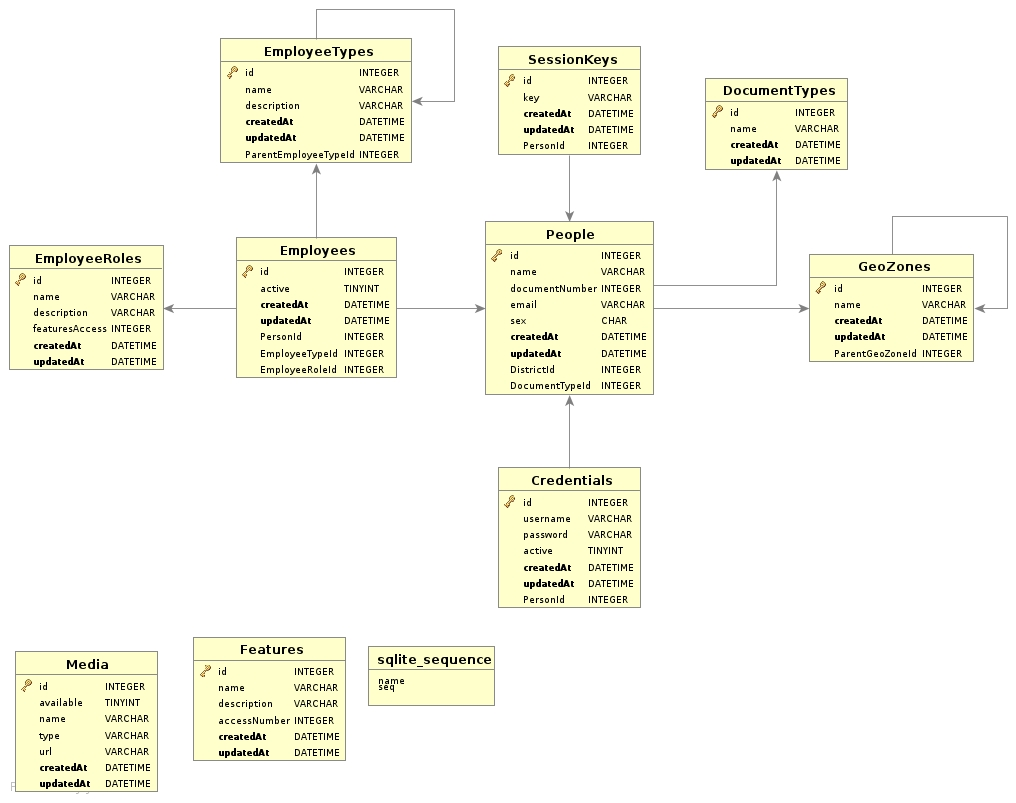
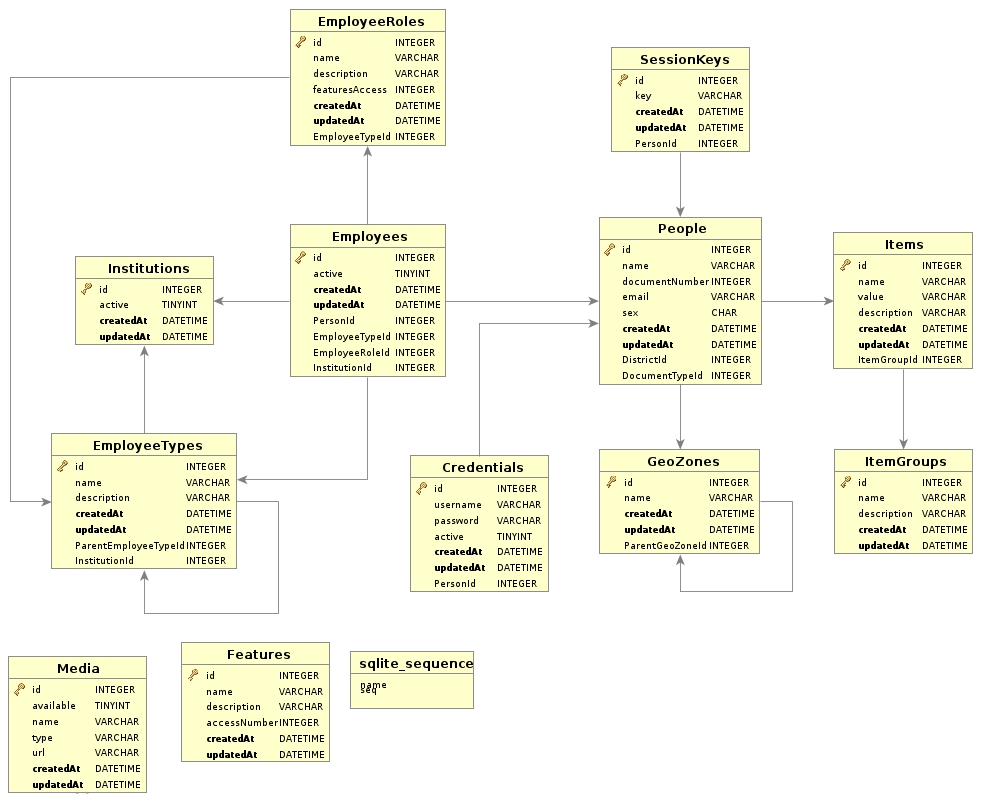
Models updated

diff --git a/src/models/index.js b/src/models/index.js
@@ -40,11 +40,6 @@ module.exports = function ($config, $methods) {
 			key: Sequelize.STRING
 		});
 
-		// Type of document: DNI, Passport, etc..
-		var DocumentType = db.define('DocumentType', {
-			name: Sequelize.STRING
-		});
-
 		// Any geographic zone: Country, City, District, etc..
 		var GeoZone = db.define('GeoZone', {
 			name: Sequelize.STRING
@@ -75,6 +70,11 @@ module.exports = function ($config, $methods) {
 			active: Sequelize.BOOLEAN
 		});
 
+		// Institution: Business, 
+		var Institution = db.define('Institution', {
+			active: Sequelize.BOOLEAN
+		});
+
 		// Media data
 		var Media = db.define('Media', {
 			available: Sequelize.BOOLEAN,
@@ -83,16 +83,33 @@ module.exports = function ($config, $methods) {
 			url: Sequelize.STRING
 		});
 
+		// Multiple options group
+		var ItemGroup = db.define('ItemGroup', {
+			name: Sequelize.STRING,
+			description: Sequelize.STRING
+		});
+
+		// Options
+		var Item = db.define('Item', {
+			name: Sequelize.STRING,
+			value: Sequelize.STRING,
+			description: Sequelize.STRING
+		});
+
 
 		Credential.belongsTo( Person );
 		SessionKey.belongsTo( Person );
 		GeoZone.belongsTo( GeoZone, { as: 'ParentGeoZone' } );
 		Person.belongsTo( GeoZone, { as: 'District' } );
-		Person.belongsTo( DocumentType );
-		EmployeeType.belongsTo( EmployeeType, { as: 'ParentEmployeeType' } )
+		Person.belongsTo( Item, { as: 'DocumentType' } );
+		EmployeeType.belongsTo( EmployeeType, { as: 'ParentEmployeeType' } );
+		EmployeeType.belongsTo( Institution );
+		EmployeeRole.belongsTo( EmployeeType );
 		Employee.belongsTo( Person );
 		Employee.belongsTo( EmployeeType );
 		Employee.belongsTo( EmployeeRole );
+		Employee.belongsTo( Institution );
+		Item.belongsTo( ItemGroup );
 
 
 	// Sync database
